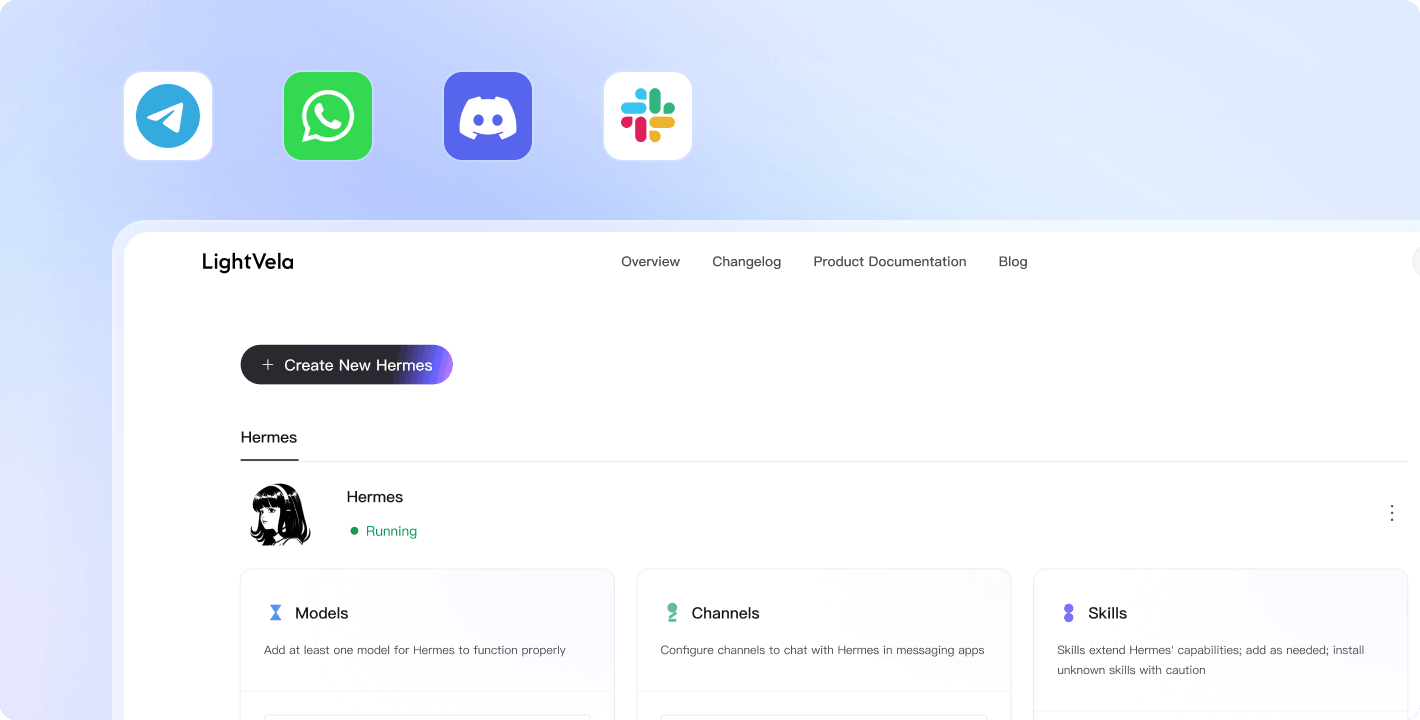
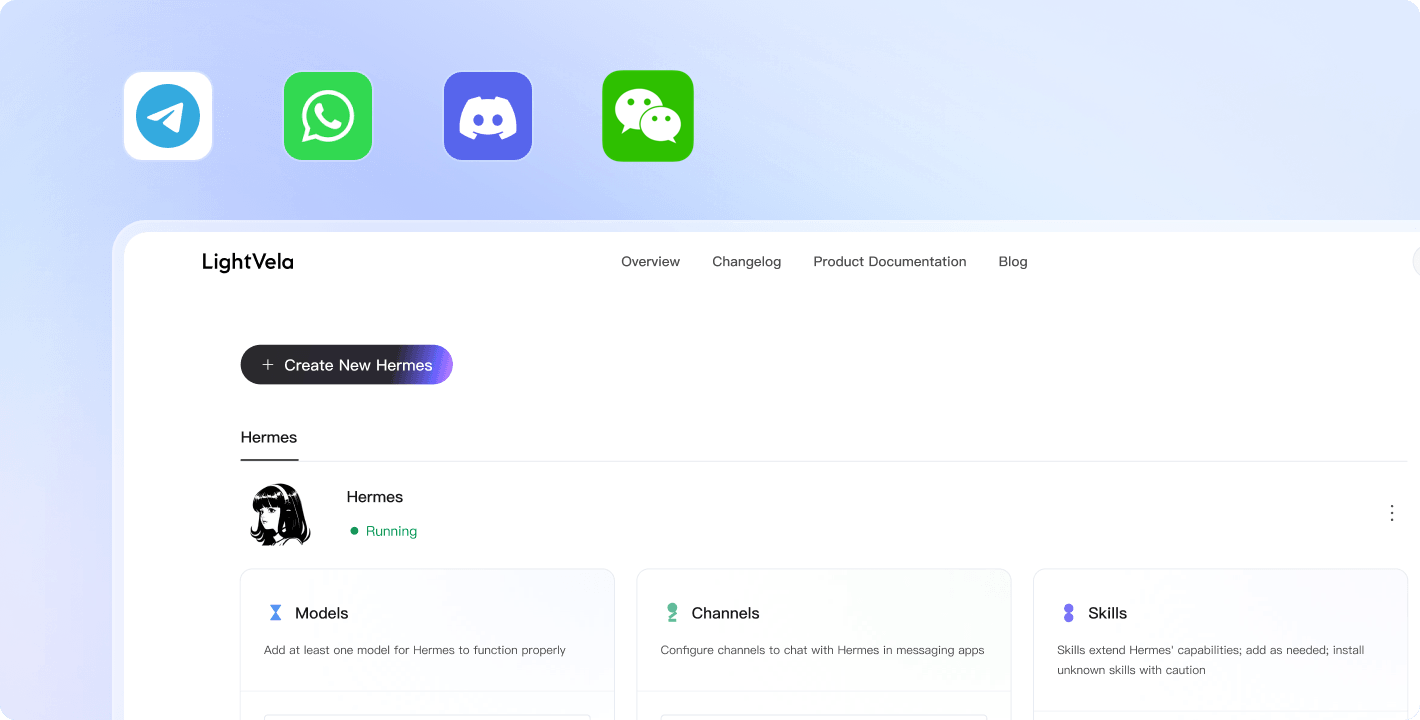
[FE-AI] feat(marketing/docs): 国际站去掉 Telegram/WhatsApp/Discord 即将推出标识 + 更新文案与截图
国际站三条非 WeChat 通道已上线，统一移除「即将推出 / coming soon」相关字样：

- landing where-to-use 三张卡（Telegram / WhatsApp / Discord）：
  · 标题去掉「（即将支持） / (Coming Soon)」
  · 企业微信卡保持不变
- changelog 「LightVela 正式上线」描述：
  · 中文：从「Telegram、WhatsApp、Discord、Slack 通道」改为「WeChat、Telegram、WhatsApp、Discord 通道」
  · 英文：同步更新为 "with WeChat, Telegram, WhatsApp, and Discord channels supported"
  · 配套国际站截图 lightvela-launch-en.png 整体替换
- 文档「快速开始」「本页覆盖」改为「接入 WeChat / Telegram / WhatsApp / Discord 通道」（中英）
- 文档「配置总览」表格 Telegram / WhatsApp / Discord 行去掉「（即将推出） / (coming soon)」（中英）
- 文档「配置总览」「1. 通道（Channels）」下方截图（4-2.png / 4-2-en.png）替换为新版

国内站文案、changelog 描述与截图、CN sidebar 等均未变更。

Changed region(s): [[0.4028, 0.0917, 0.4958, 0.2444]]

diff --git a/frontend/src/pages/marketing/landing/where-to-use-section.tsx b/frontend/src/pages/marketing/landing/where-to-use-section.tsx
@@ -137,21 +137,21 @@ function useGlobalCards(): UseCaseCard[] {
       key: "telegram",
       glow: "#229ED9",
       icon: { kind: "img", src: assetUrl("/assets/landing/where-to-use/telegram-logo.png"), alt: "Telegram" },
-      title: t("Telegram（即将支持）"),
+      title: t("Telegram"),
       desc: t("轻松一键连接 Telegram 聊天，畅享安全高效的全球沟通体验。"),
     },
     {
       key: "whatsapp",
       glow: "#25D366",
       icon: { kind: "img", src: assetUrl("/assets/landing/where-to-use/whatsapp-logo.png"), alt: "WhatsApp" },
-      title: t("WhatsApp（即将支持）"),
+      title: t("WhatsApp"),
       desc: t("快速连接 WhatsApp 聊天，日常联系与消息处理更便捷。"),
     },
     {
       key: "discord",
       glow: "#5865F2",
       icon: { kind: "img", src: assetUrl("/assets/landing/where-to-use/discord-logo.png"), alt: "Discord" },
-      title: t("Discord（即将支持）"),
+      title: t("Discord"),
       desc: t("连接 Discord 社群频道，让实时交流与协作更加自由。"),
     },
   ];

diff --git a/frontend/src/pages/marketing/changelog-page.tsx b/frontend/src/pages/marketing/changelog-page.tsx
@@ -96,7 +96,7 @@ function ChangelogContent() {
      isGlobal 是 Vite 编译期常量，未命中的分支会被 tree-shake 掉，
      不会污染另一侧站点的 bundle。 */
   const launchDesc = isGlobal
-    ? t("支持一键创建云端 Hermes，支持接入 Telegram、WhatsApp、Discord、Slack 通道")
+    ? t("支持一键创建云端 Hermes，支持接入 WeChat、Telegram、WhatsApp、Discord 通道")
     : t("支持一键创建云端 Hermes，支持接入 QQ、微信、飞书通道");
 
   const changelogData: ChangelogEntry[] = [

diff --git a/frontend/src/content/docs/global/05-configuration.md b/frontend/src/content/docs/global/05-configuration.md
@@ -67,9 +67,9 @@ LightVela 的所有配置集中在「我的 Hermes」管理台中，由三个配
 | 通道 | 接入方式 | 所需条件 |
 |---|---|---|
 | WeChat | 扫码授权 | 一台装有微信的手机 |
-| Telegram（即将推出） | Bot Token 接入 | 通过 BotFather 创建 Telegram Bot，并获取 Bot Token |
-| WhatsApp（即将推出） | WhatsApp Business API 接入 | 需要 Meta 开发者账号、WhatsApp Business Account，并完成 Cloud API 基础配置 |
-| Discord（即将推出） | Bot Token 接入 | 在 Discord Developer Portal 创建 Application，添加 Bot，并邀请到服务器 |
+| Telegram | Bot Token 接入 | 通过 BotFather 创建 Telegram Bot，并获取 Bot Token |
+| WhatsApp | WhatsApp Business API 接入 | 需要 Meta 开发者账号、WhatsApp Business Account，并完成 Cloud API 基础配置 |
+| Discord | Bot Token 接入 | 在 Discord Developer Portal 创建 Application，添加 Bot，并邀请到服务器 |
 
 **按键提供**：通道下拉、「授权接入」按钮、所选通道的介绍与「查看详情」链接、「已接入通道」列表。
 

diff --git a/frontend/src/content/docs/en/05-configuration.md b/frontend/src/content/docs/en/05-configuration.md
@@ -67,9 +67,9 @@ The three buttons are arranged from left to right. The recommended configuration
 | Channel | Access method | Requirement |
 |---|---|---|
 | WeChat | QR-code authorization | A phone with WeChat installed |
-| Telegram (coming soon) | Bot Token access | Create a Telegram Bot through BotFather and obtain a Bot Token |
-| WhatsApp (coming soon) | WhatsApp Business API access | Meta developer account, WhatsApp Business Account, and basic Cloud API setup |
-| Discord (coming soon) | Bot Token access | Create an Application in Discord Developer Portal, add a Bot, and invite it to a server |
+| Telegram | Bot Token access | Create a Telegram Bot through BotFather and obtain a Bot Token |
+| WhatsApp | WhatsApp Business API access | Meta developer account, WhatsApp Business Account, and basic Cloud API setup |
+| Discord | Bot Token access | Create an Application in Discord Developer Portal, add a Bot, and invite it to a server |
 
 **Button provides**: Channel dropdown, "Authorize Access" button, selected channel introduction and "View Details" link, and "Connected channels" list.
 

diff --git a/frontend/src/content/docs/en/02-quickstart.md b/frontend/src/content/docs/en/02-quickstart.md
@@ -10,7 +10,7 @@ This tutorial walks through the full process from signing in to receiving a Herm
 
 - Activating the Launch plan and creating a Hermes instance
 
-- Connecting the WeChat channel (Telegram / WhatsApp / Discord coming soon)
+- Connecting WeChat / Telegram / WhatsApp / Discord channels
 
 - Sending a message in WeChat and receiving a reply
 

diff --git a/frontend/src/content/docs/global/02-quickstart.md b/frontend/src/content/docs/global/02-quickstart.md
@@ -10,7 +10,7 @@
 
 - 开通启航套餐并创建 Hermes 实例
 
-- 接入 WeChat（Telegram / WhatsApp / Discord 即将推出）通道
+- 接入 WeChat / Telegram / WhatsApp / Discord 通道
 
 - 在 WeChat 中发送消息并接收回复
 
